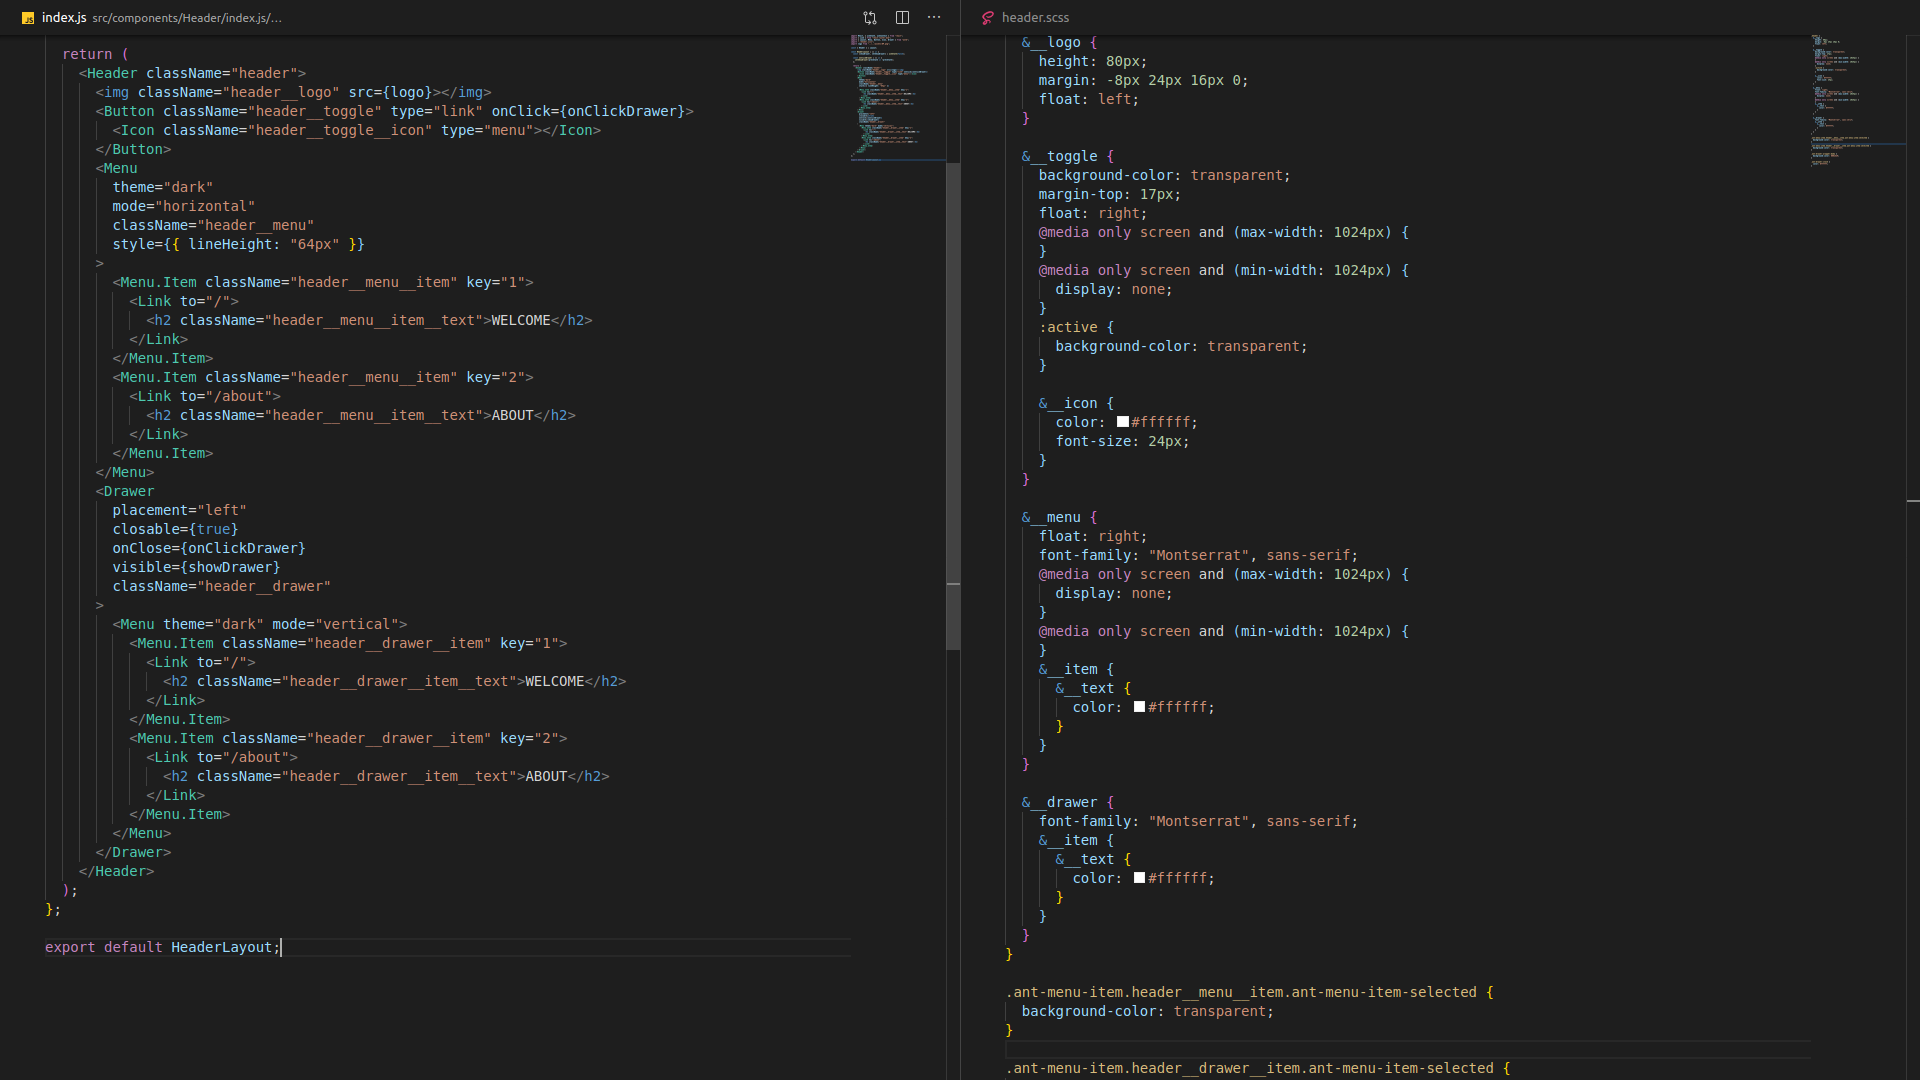
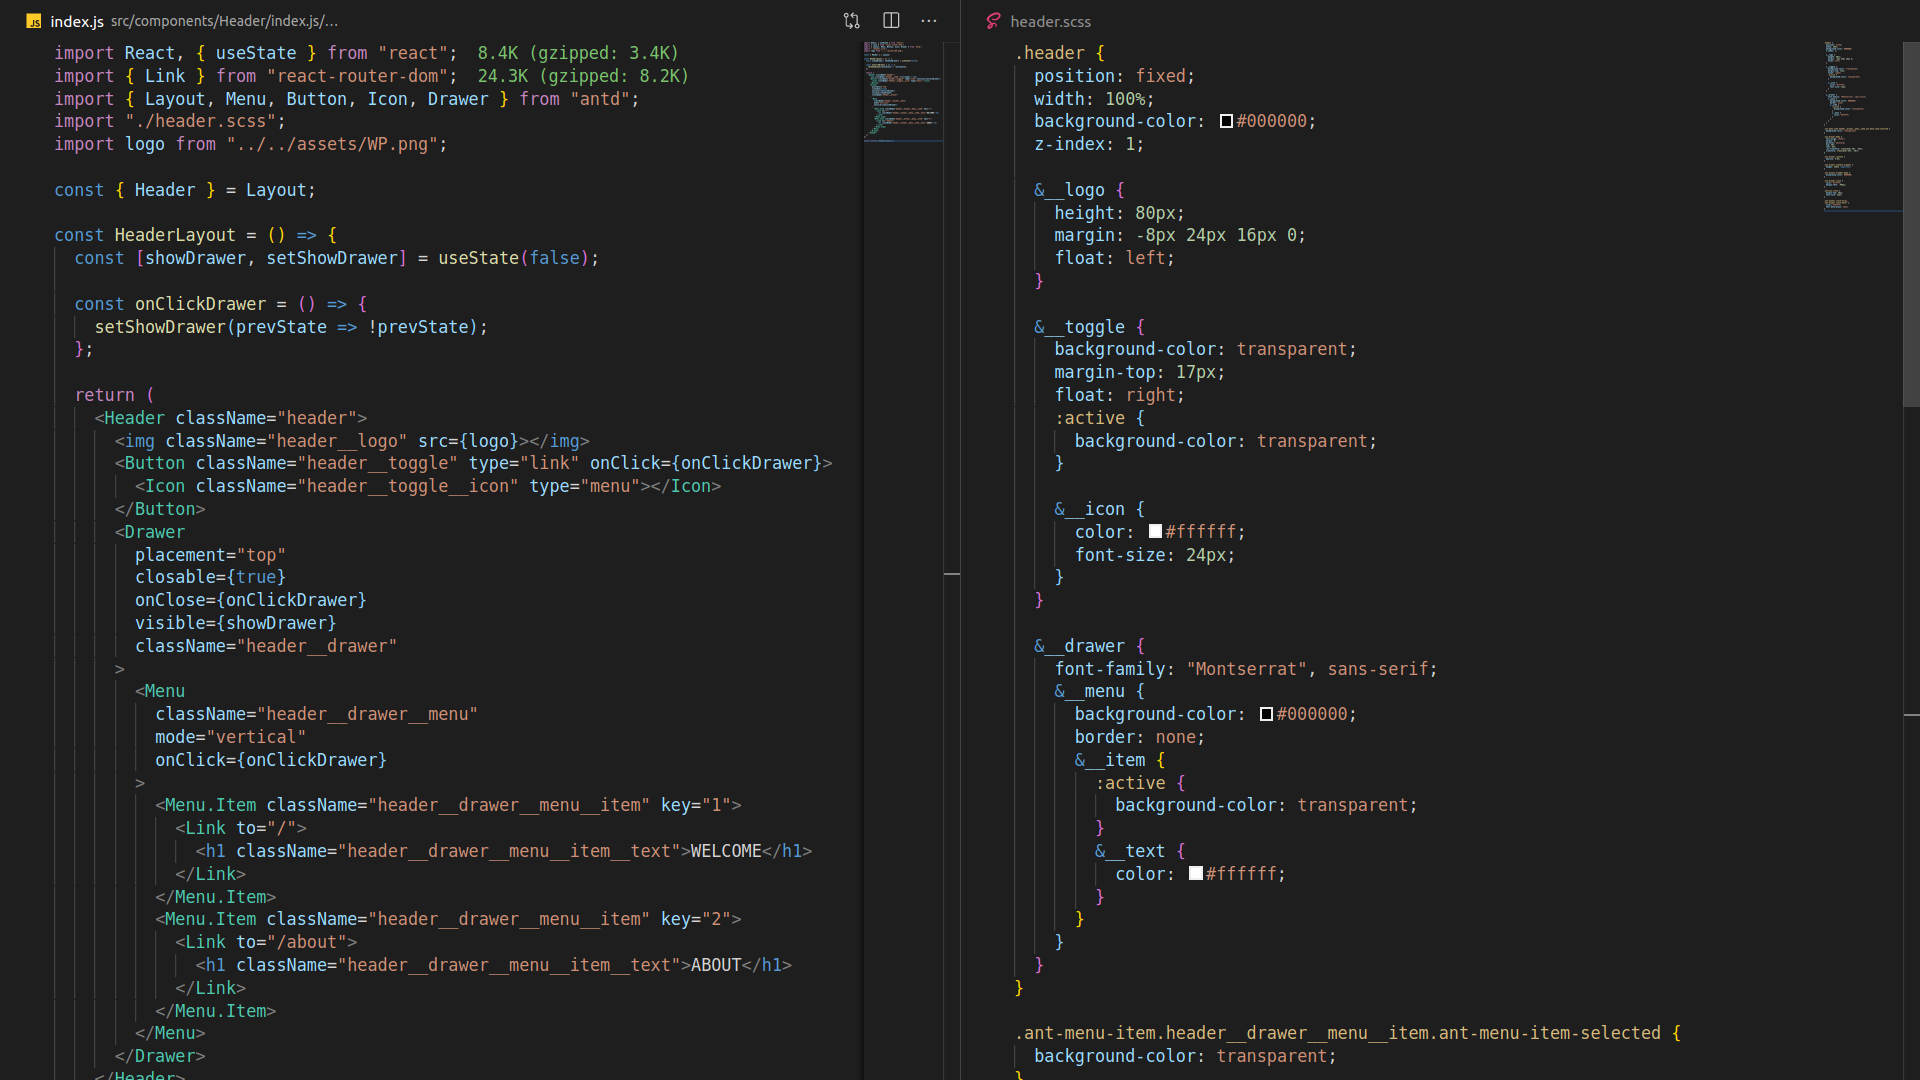
change color theme

diff --git a/src/components/Welcome/welcome.scss b/src/components/Welcome/welcome.scss
@@ -1,16 +1,45 @@
 .home {
-  z-index: 0;
-  height: 100vh;
-  position: relative;
-  margin: -2px 0px -2px -2px;
-  background-color: #000000;
-  background-image: url("../../assets/home-background.png");
-  background-position: center center;
-  background-size: cover;
-  filter: blur(1.5px);
-  &__test {
+  &__mask {
     height: 100vh;
     background-color: #000000;
-    opacity: 0.5;
+  }
+
+  &__background {
+    z-index: 0;
+    height: 100vh;
+    position: relative;
+    margin: -4px 0px -4px -4px;
+    background-image: url("../../assets/home-background.png");
+    background-position: center top;
+    background-size: cover;
+    filter: blur(1px);
+    opacity: 0.3;
+  }
+
+  &__card {
+    font-family: "Montserrat", sans-serif;
+    background-color: transparent;
+    position: absolute;
+    top: 50%;
+    left: 50%;
+    transform: translate(-50%, -50%);
+    width: 80%;
+
+    &__center {
+      color: #ffffff;
+      font-size: 46px;
+    }
+
+    &__description {
+      color: #848383;
+    }
+
+    .ant-card-head {
+      color: #ffffff;
+      font-size: 12px;
+      letter-spacing: 10px;
+      font-weight: 600;
+      border: 0px;
+    }
   }
 }

diff --git a/src/components/Welcome/index.js b/src/components/Welcome/index.js
@@ -3,12 +3,29 @@ import background from "../../assets/home-background.png";
 import logo from "../../assets/logo.svg";
 import "./welcome.scss";
 
+import { Card } from "antd";
+const { Meta } = Card;
+
 const Welcome = () => {
   return (
     <div className="home">
-      <div className="home__test">
-        <h1>testing</h1>
+      <div className="home__mask">
+        <div className="home__background"></div>
       </div>
+      <Card title="LOREM IPSUM" className="home__card" bordered={false}>
+        <p className="home__card__center">
+          Lorem Ipsum is simply dummy text of the printing and typesetting
+          industry.
+        </p>
+        <p className="home__card__description">
+          It has survived not only five centuries, but also the leap into
+          electronic typesetting, remaining essentially unchanged. It was
+          popularised in the 1960s with the release of Letraset sheets
+          containing Lorem Ipsum passages, and more recently with desktop
+          publishing software like Aldus PageMaker including versions of Lorem
+          Ipsum.
+        </p>
+      </Card>
     </div>
   );
 };

diff --git a/src/components/Header/index.js b/src/components/Header/index.js
@@ -1,5 +1,5 @@
 import React, { useState } from "react";
-import { Link } from "react-router-dom";
+// import { Link } from "react-router-dom";
 import { Layout, Menu, Button, Icon, Drawer } from "antd";
 import "./header.scss";
 import logo from "../../assets/WP.png";
@@ -33,12 +33,12 @@ const HeaderLayout = () => {
         >
           <Menu.Item className="header__drawer__menu__item" key="1">
             <Link to="/">
-              <h1 className="header__drawer__menu__item__text">WELCOME</h1>
+              <h1 className="header__drawer__menu__item__text">Welcome</h1>
             </Link>
           </Menu.Item>
           <Menu.Item className="header__drawer__menu__item" key="2">
             <Link to="/about">
-              <h1 className="header__drawer__menu__item__text">ABOUT</h1>
+              <h1 className="header__drawer__menu__item__text">About</h1>
             </Link>
           </Menu.Item>
         </Menu>

diff --git a/src/components/Header/header.scss b/src/components/Header/header.scss
@@ -1,11 +1,11 @@
 .header {
   position: fixed;
   width: 100%;
-  background-color: #000000;
+  background-color: #0a0a0a;
   z-index: 1;
 
   &__logo {
-    height: 80px;
+    height: 0px;
     margin: -8px 24px 16px 0;
     float: left;
   }
@@ -27,7 +27,7 @@
   &__drawer {
     font-family: "Montserrat", sans-serif;
     &__menu {
-      background-color: #000000;
+      background-color: #0a0a0a;
       border: none;
       &__item {
         :active {
@@ -64,7 +64,7 @@
 }
 
 .ant-drawer-wrapper-body {
-  background-color: #000000;
+  background-color: #0a0a0a;
 }
 
 .ant-drawer-close {

diff --git a/src/components/Footer/footer.scss b/src/components/Footer/footer.scss
@@ -1,4 +1,5 @@
 .Footer.ant-layout-footer {
-  background-color: #000000;
+  font-family: "Montserrat", sans-serif;
+  background-color: #0a0a0a;
   color: #ffffff;
 }
